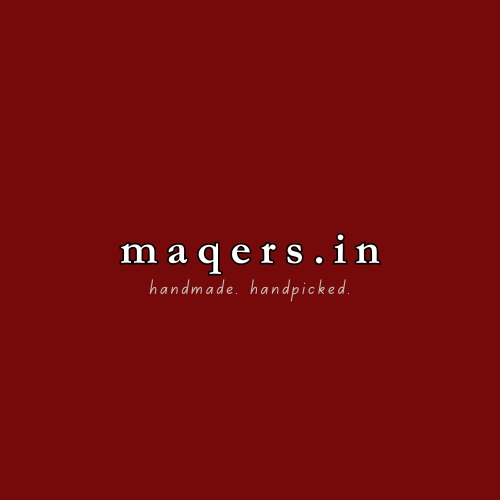
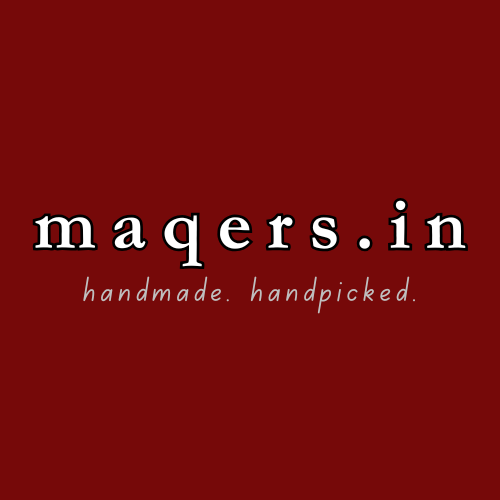
editing css

Changed region(s): [[0.06, 0.39, 0.96, 0.63]]

diff --git a/app/globals.css b/app/globals.css
@@ -153,9 +153,9 @@ html, body {
   height: 46px;
   border-radius: 12px;
   border: none;
-  background: #43c27a;
+  background: #760909;
   color: #fff;
-  font-size: 16px;
+  font-size: 18.5px;
   cursor: pointer;
   font-family: "Times New Roman", Times, serif;
 }

diff --git a/app/page.jsx b/app/page.jsx
@@ -67,7 +67,7 @@ export default function ApplyPage() {
 
   return (
     <div>
-      <div className="brandTopLeft">Maqers.in</div>
+      <div className="brandTopLeft"></div>
 
       <div className="split">
         <div className="leftPanel">
